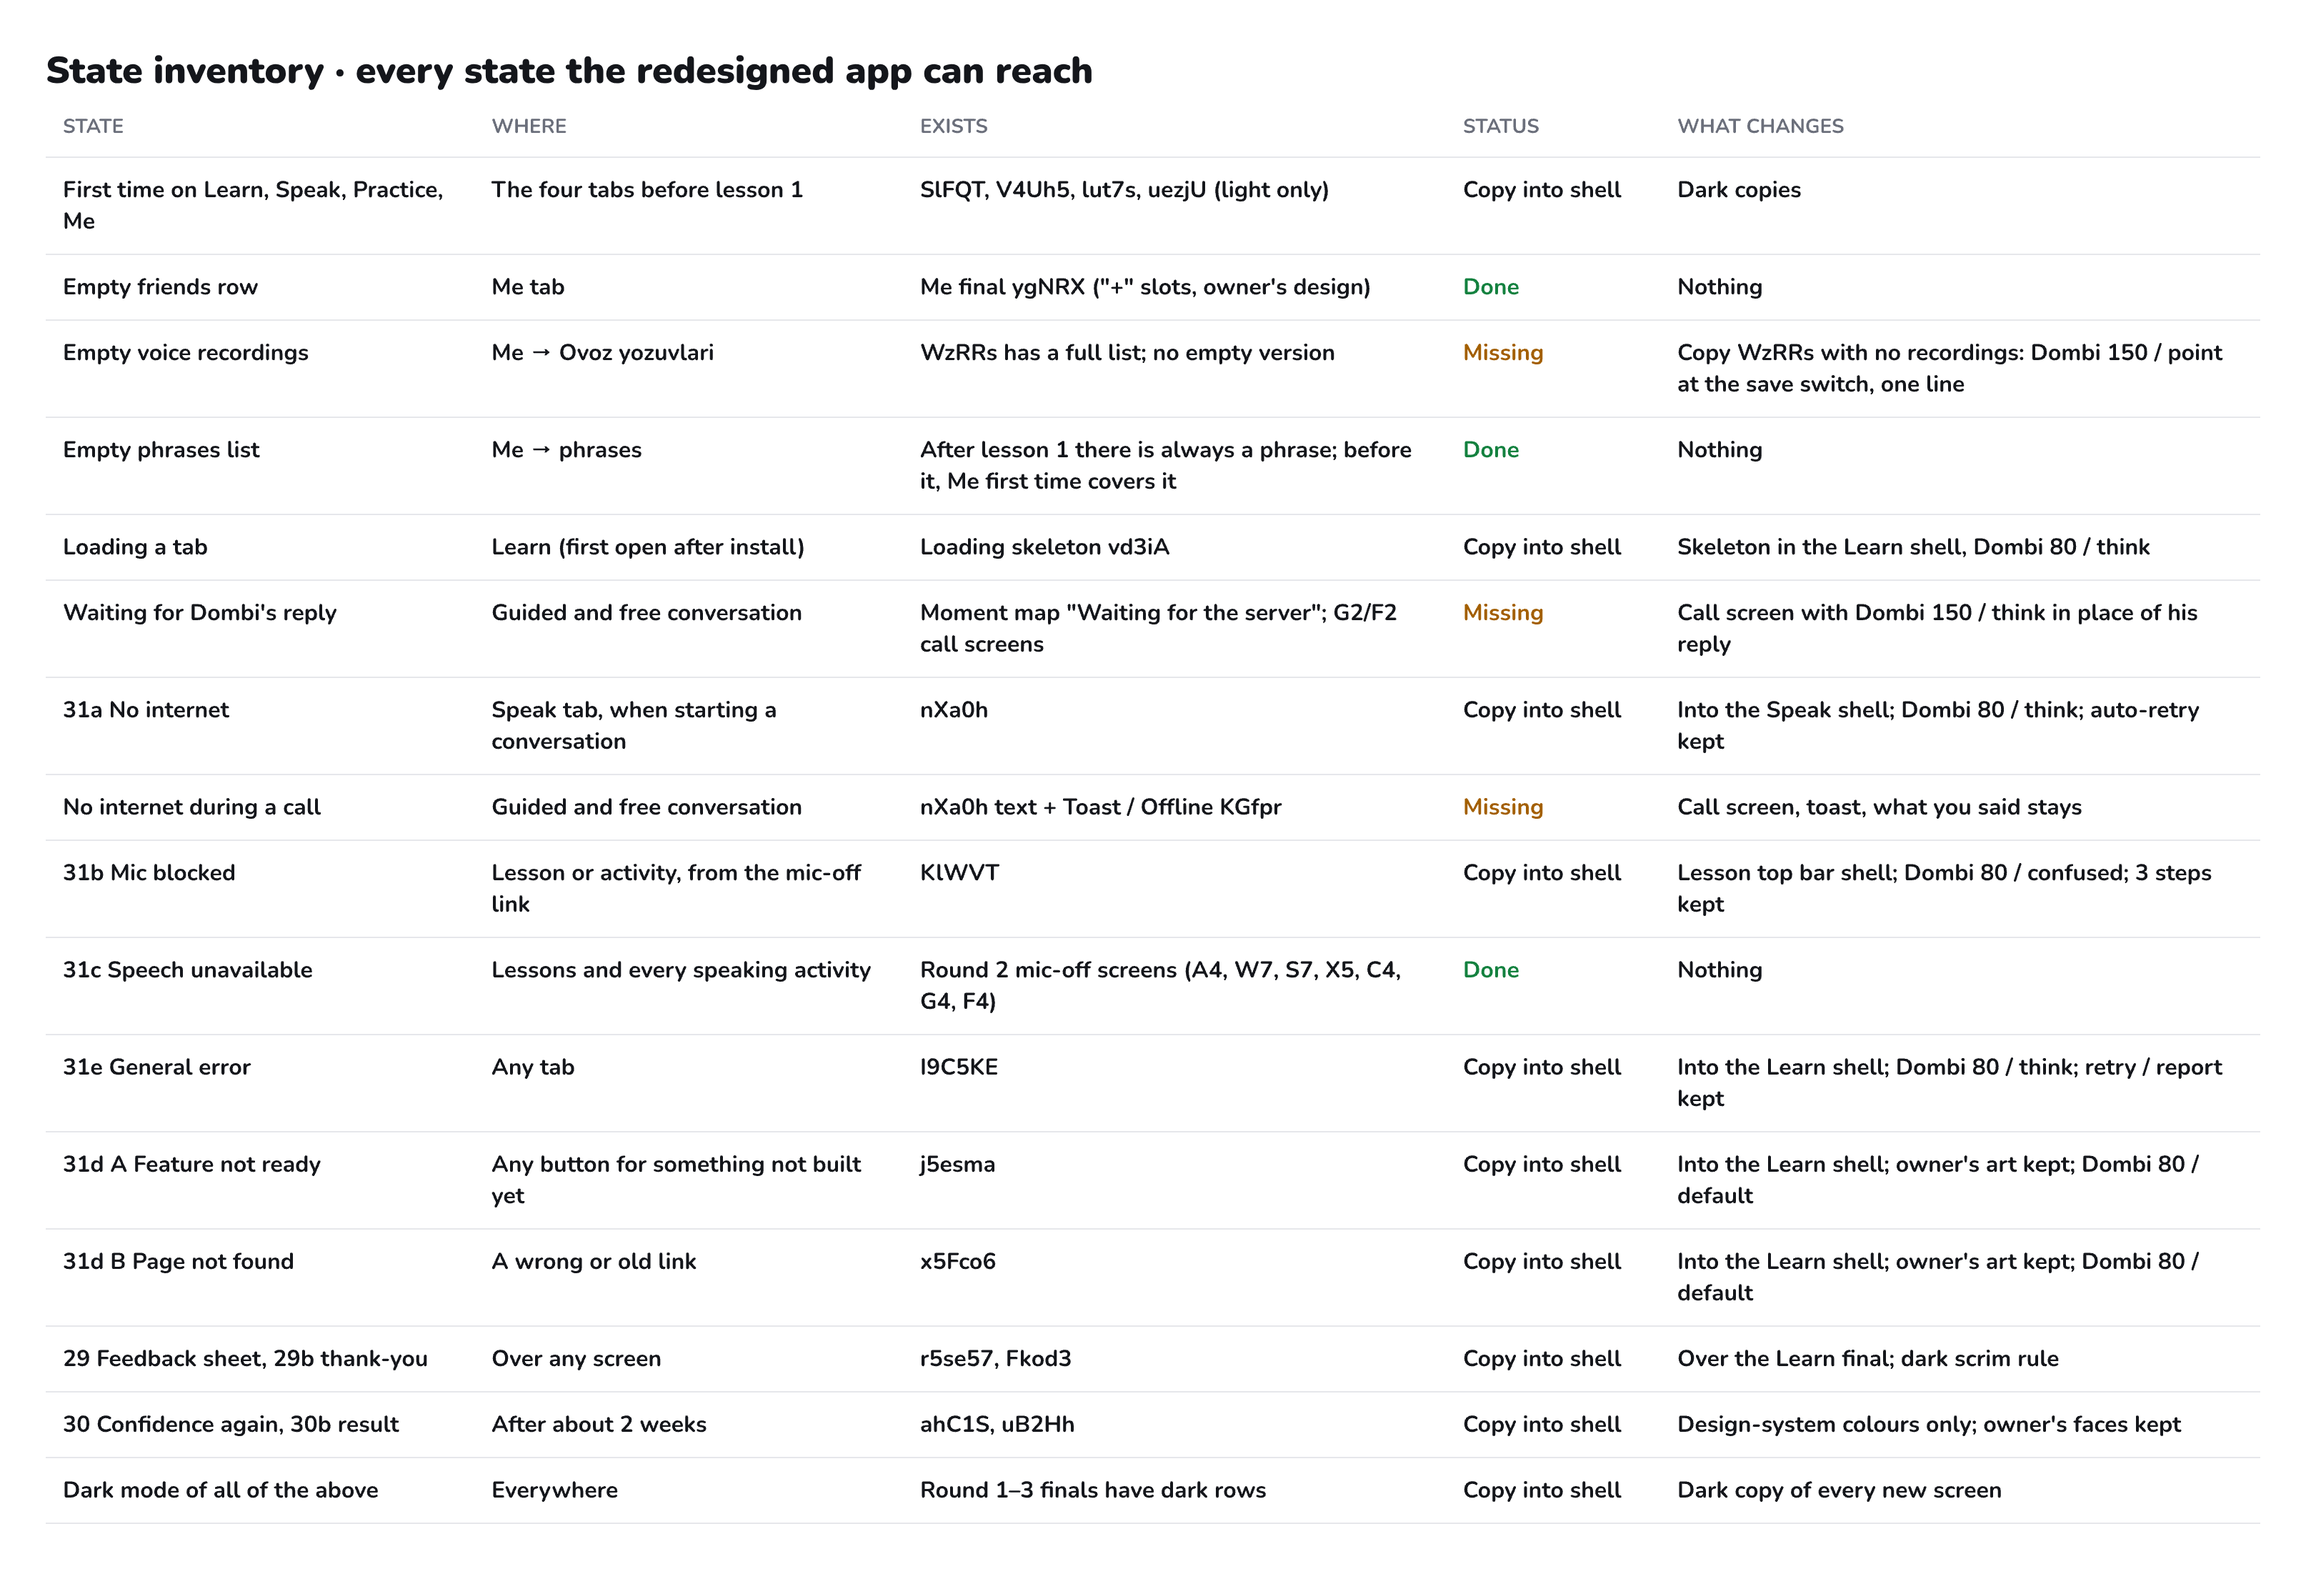
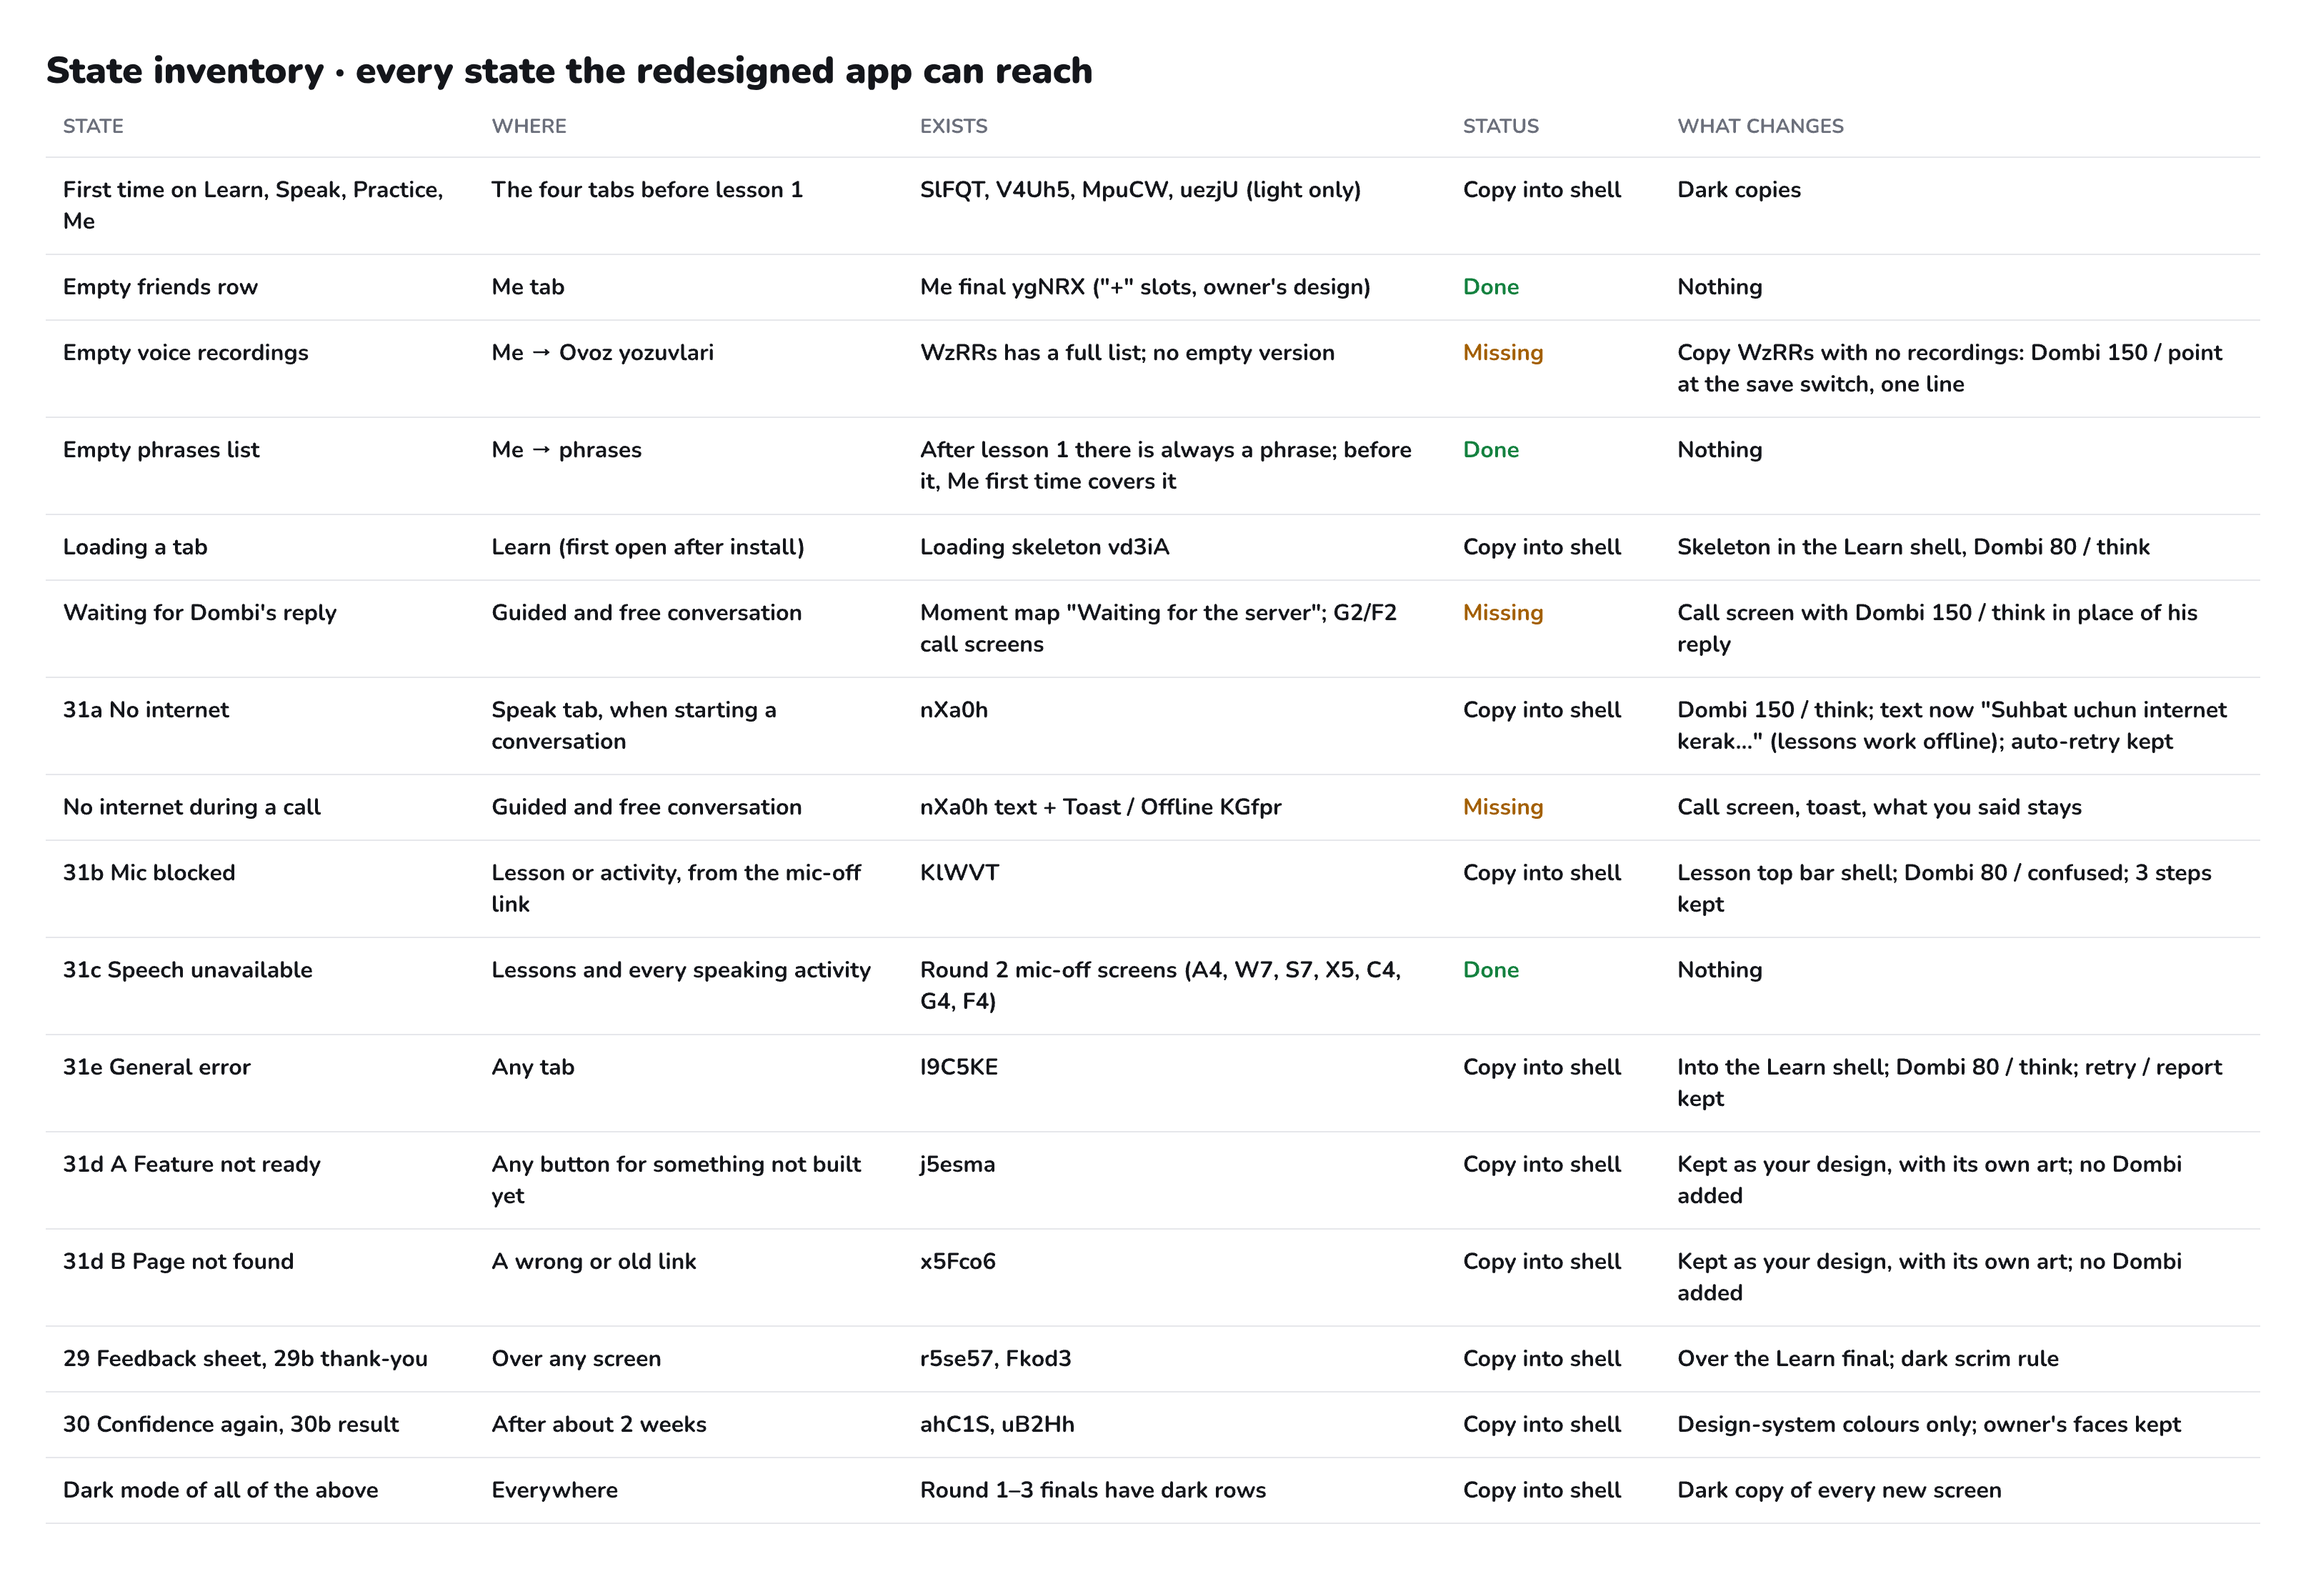
Redesign: problem states with Dombi's current faces

diff --git a/docs/superpowers/specs/2026-10-26-state-inventory.md b/docs/superpowers/specs/2026-10-26-state-inventory.md
@@ -12,13 +12,13 @@ Lessons and scripted activities have their content on the phone, so they work wi
 | Empty phrases list | Me → phrases | After lesson 1 there is always a phrase; before it, Me first time covers it | Done | Nothing |
 | Loading a tab | Learn (first open after install) | Loading skeleton vd3iA | Copy into shell | Skeleton in the Learn shell, Dombi 80 / think |
 | Waiting for Dombi's reply | Guided and free conversation | Moment map "Waiting for the server"; G2/F2 call screens | Missing | Call screen with Dombi 150 / think in place of his reply |
-| 31a No internet | Speak tab, when starting a conversation | nXa0h | Copy into shell | Into the Speak shell; Dombi 80 / think; auto-retry kept |
+| 31a No internet | Speak tab, when starting a conversation | nXa0h | Copy into shell | Dombi 150 / think; text now "Suhbat uchun internet kerak…" (lessons work offline); auto-retry kept |
 | No internet during a call | Guided and free conversation | nXa0h text + Toast / Offline KGfpr | Missing | Call screen, toast, what you said stays |
 | 31b Mic blocked | Lesson or activity, from the mic-off link | KlWVT | Copy into shell | Lesson top bar shell; Dombi 80 / confused; 3 steps kept |
 | 31c Speech unavailable | Lessons and every speaking activity | Round 2 mic-off screens (A4, W7, S7, X5, C4, G4, F4) | Done | Nothing |
 | 31e General error | Any tab | I9C5KE | Copy into shell | Into the Learn shell; Dombi 80 / think; retry / report kept |
-| 31d A Feature not ready | Any button for something not built yet | j5esma | Copy into shell | Into the Learn shell; owner's art kept; Dombi 80 / default |
-| 31d B Page not found | A wrong or old link | x5Fco6 | Copy into shell | Into the Learn shell; owner's art kept; Dombi 80 / default |
+| 31d A Feature not ready | Any button for something not built yet | j5esma | Copy into shell | Kept as your design, with its own art; no Dombi added |
+| 31d B Page not found | A wrong or old link | x5Fco6 | Copy into shell | Kept as your design, with its own art; no Dombi added |
 | 29 Feedback sheet, 29b thank-you | Over any screen | r5se57, Fkod3 | Copy into shell | Over the Learn final; dark scrim rule |
 | 30 Confidence again, 30b result | After about 2 weeks | ahC1S, uB2Hh | Copy into shell | Design-system colours only; owner's faces kept |
 | Dark mode of all of the above | Everywhere | Round 1–3 finals have dark rows | Copy into shell | Dark copy of every new screen |
